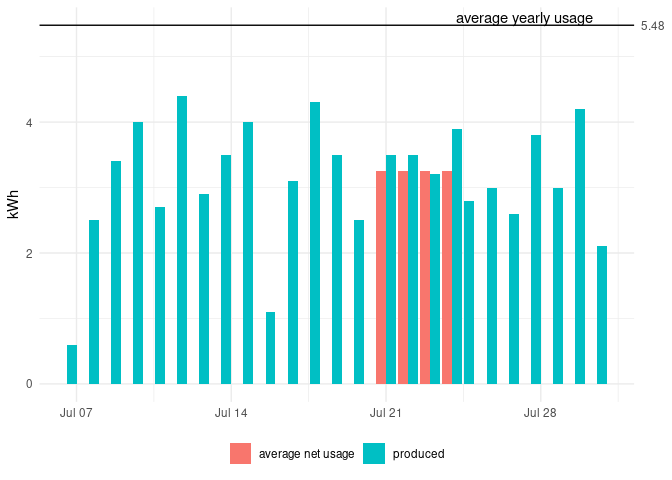
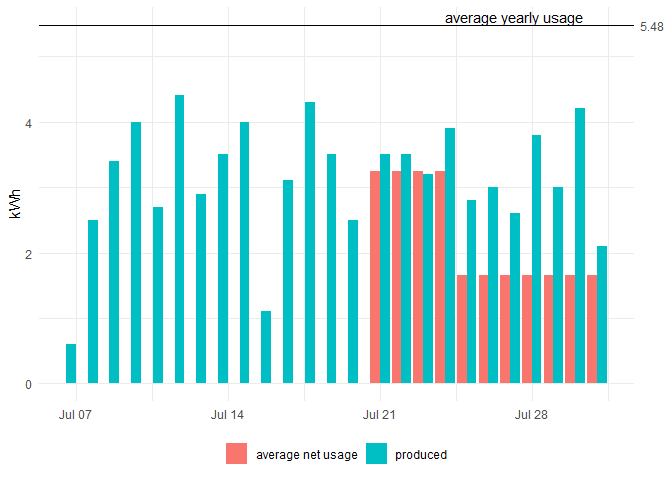
update report

diff --git a/README.md b/README.md
@@ -1,0 +1,53 @@
+Net Electricity Consumption
+================
+
+Visualization of electricity production by balcony power station and net
+electricity usage, measured by electricity meter.
+
+<div>
+
+by <a href="mailto:firstname.lastname@outlook.com">Konstantin</a> on
+2025-07-31 21:50:21.230892
+
+</div>
+
+``` r
+# load packages
+library(conflicted)
+library(dplyr)
+library(ggplot2)
+library(knitr)
+library(readxl)
+library(purrr)
+library(tibble)
+library(tidyr)
+
+# solve package conflicts
+# conflict_scout()
+conflicts_prefer(dplyr::filter(), dplyr::lag(), .quiet = TRUE)
+
+# set knitr options
+opts_chunk$set(
+  echo = FALSE,
+  fig.path = file.path("img", .Platform$file.sep)
+)
+```
+
+## Data prep
+
+Import electricity net consumption from file
+
+data/electricity_meter.csv.
+
+Import electricity production from files
+
+- data/20250731_power-station.xlsx
+
+**Process** data
+
+- create data with average electricity usage by date
+- combine both data, electricity net usage and electricity production
+
+## Evaluation
+
+![](img/viz-1.png)<!-- -->
